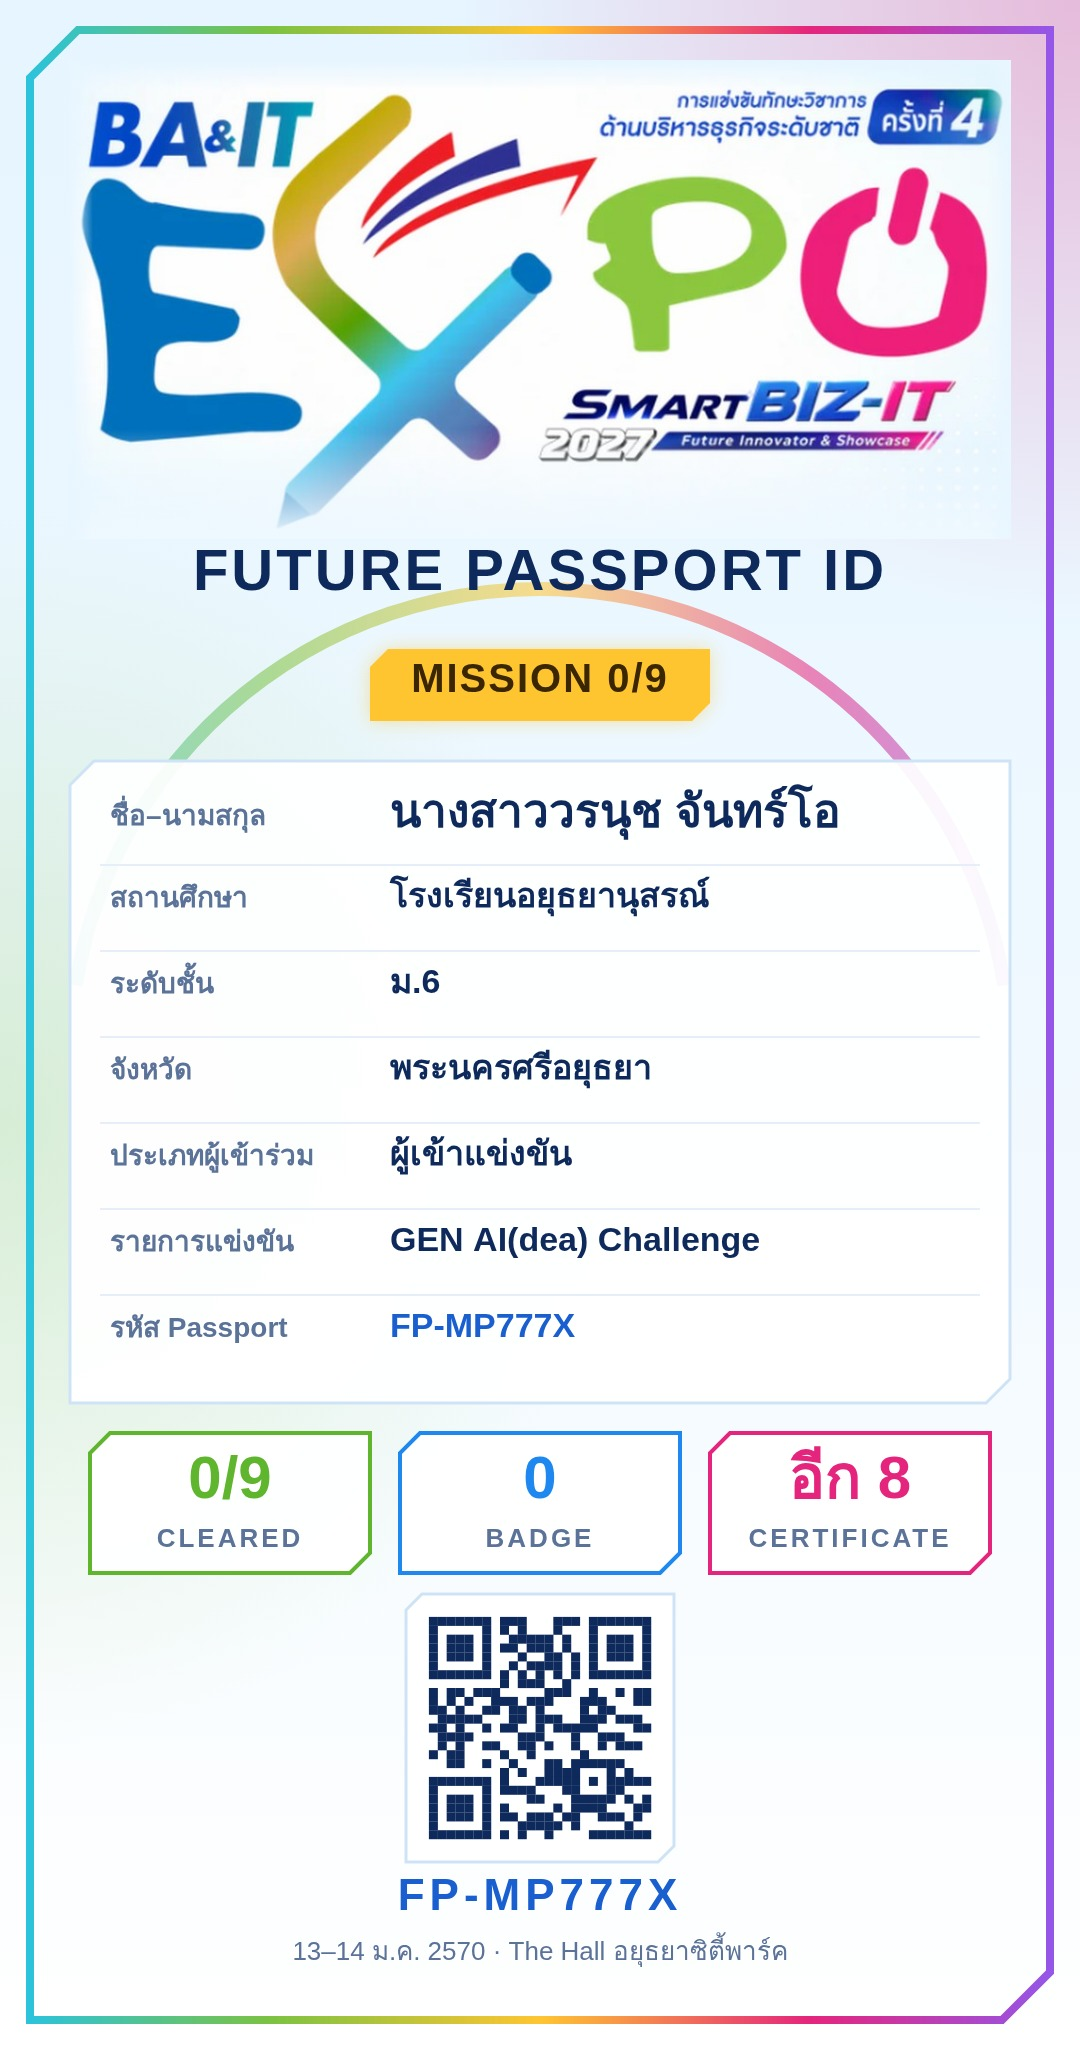
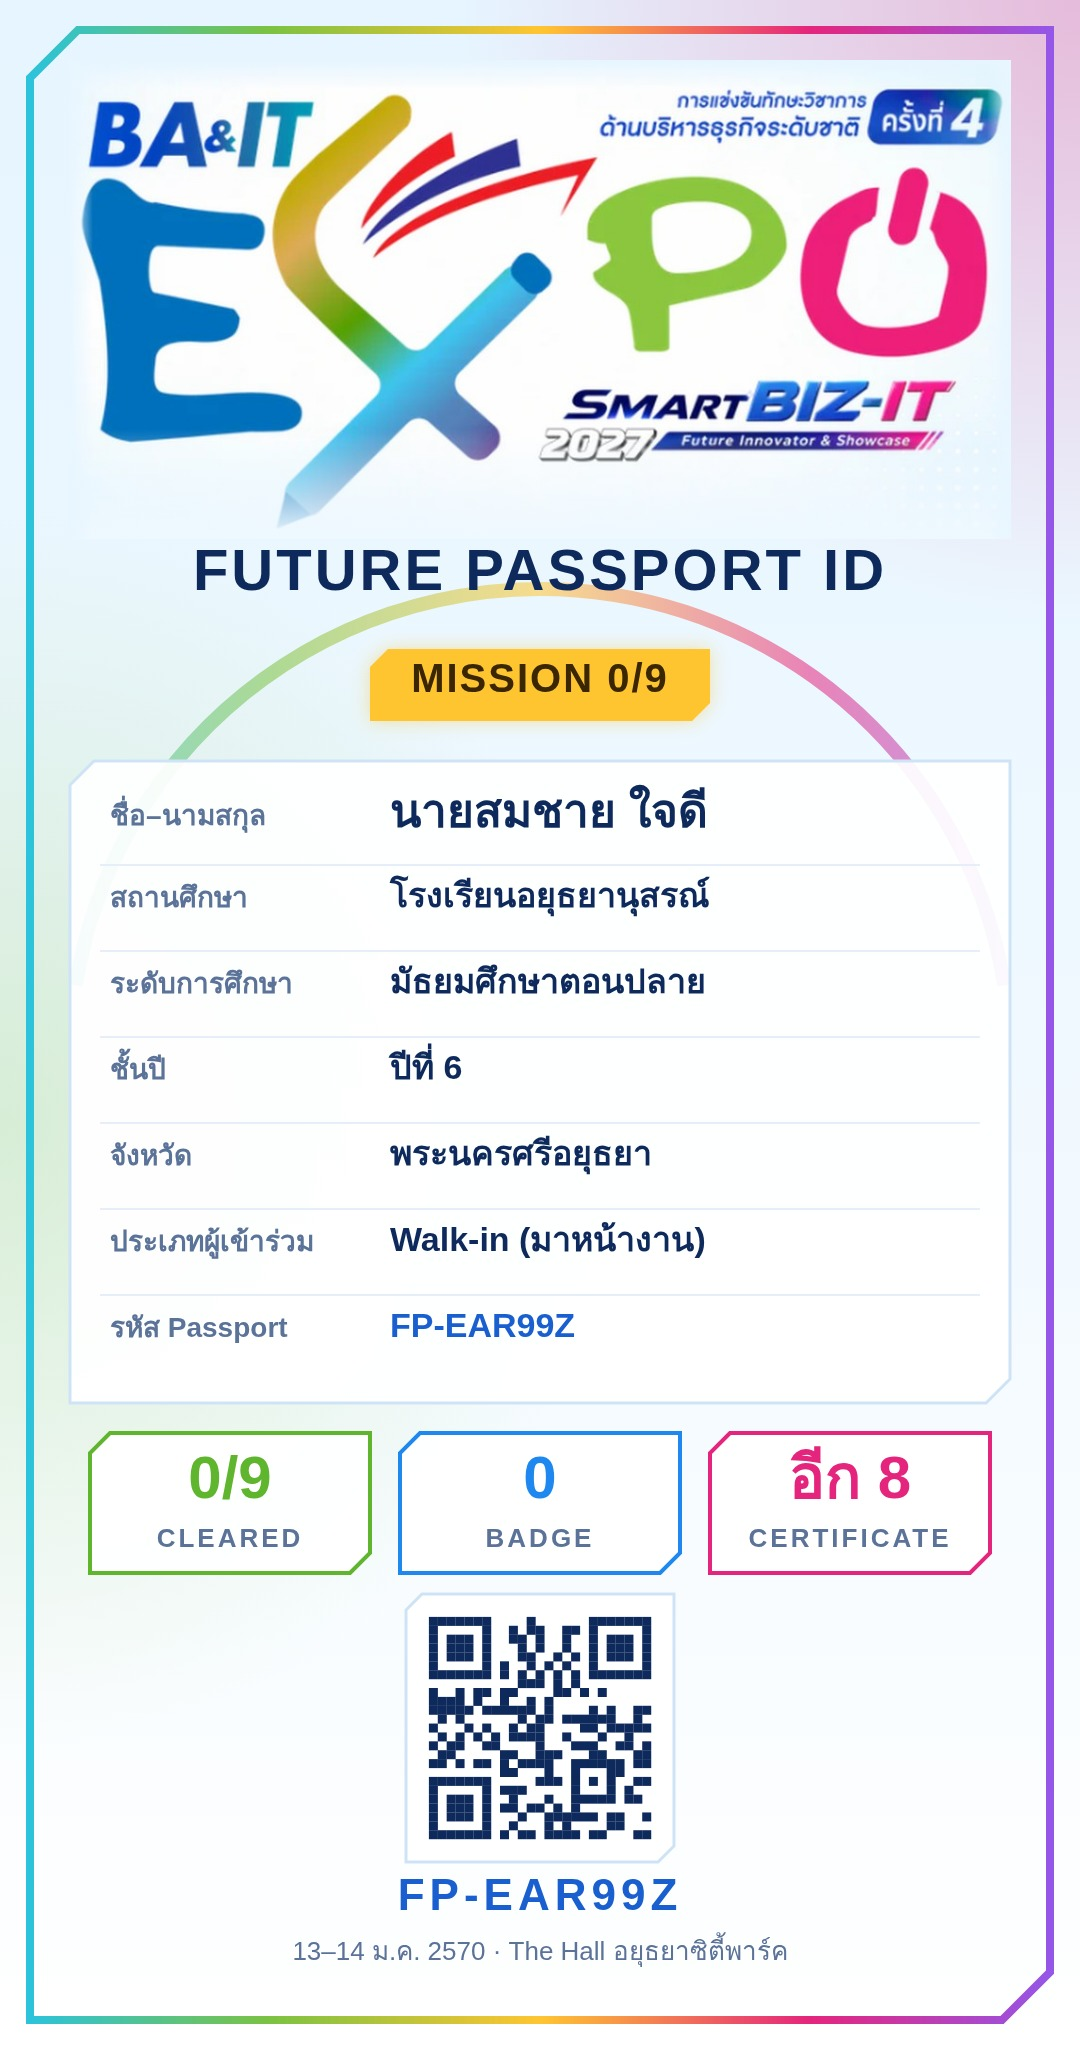
Add files via upload

diff --git a/index.html b/index.html
@@ -593,8 +593,10 @@ var STYLE = {1:["crown","#D3263A"],2:["truck","#C92A8A"],3:["trending-up","#B974
 var TIER_STYLE = [["gift","#E2399E"],["ticket","#2F6BFF"],["package","#13A57F"],["star","#C98A10"]];
 var SCHOOLS = ["อยุธยานุสรณ์","วิทยาลัยเทคโนโลยีพณิชยการอยุธยา","จอมสุรางค์อุปถัมภ์","วิทยาลัยเทคโนโลยีไทยอโยธยาบริหารธุรกิจ","อยุธยาวิทยาลัย","อิสลามศรีอยุธยามูลนิธิ","ภาชี สุนทรวิทยานุกูล","บางปะอิน ราชานุเคราะห์ 1","เสนา เสนาประสิทธิ์","ธรรมโชติศึกษาลัย","สามชุกรัตนโภคาราม","บรรหารแจ่มใสวิทยา 3","สตรีอ่างทอง","ปาโมกข์วิทยาภูมิ","อ่างทองปัทมโรจน์วิทยาคม"];
 var OTHER = "อื่น ๆ (พิมพ์ชื่อสถานศึกษา)";
-var PROVINCES = ["พระนครศรีอยุธยา","สุพรรณบุรี","อ่างทอง","อื่น ๆ"];
-var LEVELS = ["ม.4","ม.5","ม.6","ปวช.","ปวส.","อื่น ๆ"];
+var PROVINCES = ["กรุงเทพมหานคร", "กระบี่", "กาญจนบุรี", "กาฬสินธุ์", "กำแพงเพชร", "ขอนแก่น", "จันทบุรี", "ฉะเชิงเทรา", "ชลบุรี", "ชัยนาท", "ชัยภูมิ", "ชุมพร", "เชียงราย", "เชียงใหม่", "ตรัง", "ตราด", "ตาก", "นครนายก", "นครปฐม", "นครพนม", "นครราชสีมา", "นครศรีธรรมราช", "นครสวรรค์", "นนทบุรี", "นราธิวาส", "น่าน", "บึงกาฬ", "บุรีรัมย์", "ปทุมธานี", "ประจวบคีรีขันธ์", "ปราจีนบุรี", "ปัตตานี", "พระนครศรีอยุธยา", "พะเยา", "พังงา", "พัทลุง", "พิจิตร", "พิษณุโลก", "เพชรบุรี", "เพชรบูรณ์", "แพร่", "ภูเก็ต", "มหาสารคาม", "มุกดาหาร", "แม่ฮ่องสอน", "ยโสธร", "ยะลา", "ร้อยเอ็ด", "ระนอง", "ระยอง", "ราชบุรี", "ลพบุรี", "ลำปาง", "ลำพูน", "เลย", "ศรีสะเกษ", "สกลนคร", "สงขลา", "สตูล", "สมุทรปราการ", "สมุทรสงคราม", "สมุทรสาคร", "สระแก้ว", "สระบุรี", "สิงห์บุรี", "สุโขทัย", "สุพรรณบุรี", "สุราษฎร์ธานี", "สุรินทร์", "หนองคาย", "หนองบัวลำภู", "อ่างทอง", "อำนาจเจริญ", "อุดรธานี", "อุตรดิตถ์", "อุทัยธานี", "อุบลราชธานี"];
+var NEAR_PROVINCES = ["พระนครศรีอยุธยา","อ่างทอง","สุพรรณบุรี","สิงห์บุรี","ชัยนาท","ลพบุรี","สระบุรี","ปทุมธานี","นนทบุรี"];
+var LEVELS = ["มัธยมศึกษาตอนต้น","มัธยมศึกษาตอนปลาย","ประกาศนียบัตรวิชาชีพ (ปวช.)","ประกาศนียบัตรวิชาชีพชั้นสูง (ปวส.)","มหาวิทยาลัย"];
+var YEARS = ["1","2","3","4","5","6"];
 var INTERESTS = ["ธุรกิจ/การจัดการ","การตลาด","บัญชี/การเงิน","โลจิสติกส์","เทคโนโลยี/AI","ดิจิทัลคอนเทนต์"];
 
 var S = null, pending = null, walkin = false, lastFetch = 0, SUB = "";
@@ -732,12 +734,11 @@ VIEWS.register=function(){
     st.map(function(x){return '<button type="button" role="radio" aria-checked="'+(x[0]===pre)+'" data-st="'+x[0]+'"><i data-lucide="'+x[1]+'"></i><b>'+x[2]+'</b><span>'+x[3]+'</span></button>';}).join("")+'</div>'+
   '<div id="rCompBox" style="display:none"><label class="f" for="rComp">รายการที่เข้าแข่งขัน</label><select class="in" id="rComp"><option value="">เลือกรายการแข่งขัน</option>'+opts(COMPETITIONS)+'</select></div>'+
   '<label class="f" for="rName">ชื่อ–นามสกุล (แสดงบน Passport ID และวุฒิบัตร)</label><input class="in" id="rName" autocomplete="name" maxlength="80" placeholder="เช่น นางสาวอนงค์ ใจดี">'+
-  '<label class="f" for="rSchool">สถานศึกษา</label><div class="schoolrow"><select class="in" id="rPrefix">'+opts(SCHOOL_PREFIX)+'</select>'+
-  '<input class="in" id="rSchool" list="schoolList" maxlength="120" autocomplete="off" placeholder="ชื่อสถานศึกษา เช่น อยุธยานุสรณ์"></div>'+
-  '<datalist id="schoolList">'+opts(SCHOOLS)+'</datalist>'+
-  '<div class="schoolprev" id="rSchoolPrev">จะแสดงเป็น: –</div>'+
-  '<div class="row"><div><label class="f" for="rLevel">ระดับชั้น</label><select class="in" id="rLevel">'+opts(LEVELS)+'</select></div>'+
-  '<div><label class="f" for="rProv">จังหวัด</label><select class="in" id="rProv">'+opts(PROVINCES)+'</select></div></div>'+
+  '<label class="f" for="rSchool">ชื่อสถานศึกษา (พิมพ์ชื่อเต็ม)</label><input class="in" id="rSchool" maxlength="120" autocomplete="off" placeholder="เช่น โรงเรียนอยุธยานุสรณ์ / วิทยาลัยเทคนิคอ่างทอง">'+
+  '<div class="schoolprev">พิมพ์คำว่า โรงเรียน หรือ วิทยาลัย นำหน้าด้วย ชื่อนี้จะแสดงบน Passport ID และวุฒิบัตร</div>'+
+  '<label class="f" for="rLevel">ระดับการศึกษา</label><select class="in" id="rLevel"><option value="">เลือกระดับการศึกษา</option>'+opts(LEVELS)+'</select>'+
+  '<div class="row"><div><label class="f" for="rYear">ชั้นปี</label><select class="in" id="rYear"><option value="">เลือกชั้นปี</option>'+opts(YEARS)+'</select></div>'+
+  '<div><label class="f" for="rProv">จังหวัด</label><select class="in" id="rProv"><option value="">เลือกจังหวัด</option><optgroup label="จังหวัดใกล้เคียงงาน">'+opts(NEAR_PROVINCES)+'</optgroup><optgroup label="ทุกจังหวัด (77 จังหวัด)">'+opts(PROVINCES)+'</optgroup></select></div></div>'+
   '<label class="f">ความสนใจ (เลือกได้หลายข้อ)</label><div class="chips" id="rInt">'+INTERESTS.map(function(x){return '<button type="button" class="chip" aria-pressed="false">'+esc(x)+'</button>';}).join("")+'</div>'+
   '<label class="check"><input type="checkbox" id="rNews"><span>ยินยอมรับข่าวสารหลักสูตรและการรับสมัครเรียนของคณะทาง LINE (ไม่บังคับ ยกเลิกได้ทุกเมื่อ)</span></label>'+
   '<div class="err" id="rErr" role="alert"></div>'+
@@ -748,19 +749,20 @@ VIEWS.register=function(){
     function setType(v){status=v;[].forEach.call(document.querySelectorAll("#rType [data-st]"),function(b){b.setAttribute("aria-checked",String(b.dataset.st===v));});$("rCompBox").style.display=v==="competitor"?"block":"none";}
     [].forEach.call(document.querySelectorAll("#rType [data-st]"),function(b){b.onclick=function(){setType(b.dataset.st);};});
     if(pre) setType(pre);
-    function prev(){var v=fullSchool($("rPrefix").value,$("rSchool").value);$("rSchoolPrev").textContent="จะแสดงเป็น: "+(v||"–");}
-    $("rSchool").oninput=function(){var v=this.value.trim();if(/^วิทยาลัย/.test(v))$("rPrefix").value="วิทยาลัย";else if(/^มหาวิทยาลัย/.test(v))$("rPrefix").value="มหาวิทยาลัย";else if(/^โรงเรียน/.test(v))$("rPrefix").value="โรงเรียน";prev();};
-    $("rPrefix").onchange=prev;
     [].forEach.call(document.querySelectorAll("#rInt .chip"),function(b){b.onclick=function(){b.setAttribute("aria-pressed",b.getAttribute("aria-pressed")==="true"?"false":"true");};});
     if($("rPriv")) $("rPriv").onclick=function(){openUrl(ps);};
     $("rGo").onclick=function(){
-      var name=$("rName").value.replace(/\s+/g," ").trim(), school=fullSchool($("rPrefix").value,$("rSchool").value), comp=$("rComp").value, err=$("rErr");
+      var name=$("rName").value.replace(/\s+/g," ").trim(), school=$("rSchool").value.replace(/\s+/g," ").trim(), comp=$("rComp").value, err=$("rErr");
       if(!status){err.textContent="เลือกประเภทผู้เข้าร่วม";$("rType").scrollIntoView({block:"center"});return;}
       if(status==="competitor"&&!comp){err.textContent="เลือกรายการที่เข้าแข่งขัน";return;}
       if(name.length<3){err.textContent="กรอกชื่อ–นามสกุล";return;}
       if(school.length<5){err.textContent="กรอกชื่อสถานศึกษา";return;}
+      if(!/(โรงเรียน|วิทยาลัย|มหาวิทยาลัย|สถาบัน|ศูนย์|การศึกษา)/.test(school)){err.textContent="พิมพ์ชื่อสถานศึกษาแบบเต็ม เช่น โรงเรียนอยุธยานุสรณ์ หรือ วิทยาลัยเทคนิคอ่างทอง";return;}
+      if(!$("rLevel").value){err.textContent="เลือกระดับการศึกษา";return;}
+      if(!$("rYear").value){err.textContent="เลือกชั้นปี";return;}
+      if(!$("rProv").value){err.textContent="เลือกจังหวัด";return;}
       err.textContent=""; var btn=this; btn.disabled=true; btn.textContent="กำลังลงทะเบียน…";
-      api("register",{name:name,school:school,level:$("rLevel").value,province:$("rProv").value,status:status,competition:status==="competitor"?comp:"",
+      api("register",{name:name,school:school,level:$("rLevel").value,year:$("rYear").value,province:$("rProv").value,status:status,competition:status==="competitor"?comp:"",
         interests:[].map.call(document.querySelectorAll('#rInt .chip[aria-pressed="true"]'),function(b){return b.textContent;}),
         consentNews:$("rNews").checked,walkin:status==="walkin"})
       .then(function(d){
@@ -780,7 +782,7 @@ VIEWS.register=function(){
 };
 function statusLabel(u){u=u||S.user;return STATUS_LABEL[u.status]||(u.walkin?STATUS_LABEL.walkin:"ผู้เข้าร่วมงาน");}
 function idRows(){
-  var u=S.user, r=[["ชื่อ–นามสกุล",u.name],["สถานศึกษา",u.school],["ระดับชั้น",u.level||"-"],["จังหวัด",u.province||"-"],["ประเภทผู้เข้าร่วม",statusLabel(u)]];
+  var u=S.user, r=[["ชื่อ–นามสกุล",u.name],["สถานศึกษา",u.school],["ระดับการศึกษา",u.level||"-"],["ชั้นปี",u.year?("ปีที่ "+u.year):"-"],["จังหวัด",u.province||"-"],["ประเภทผู้เข้าร่วม",statusLabel(u)]];
   if(u.status==="competitor"&&u.competition) r.push(["รายการแข่งขัน",u.competition]);
   r.push(["รหัส Passport",memberId()]);
   return r;
@@ -870,7 +872,7 @@ VIEWS.passport=function(p){
     '<p class="note" style="margin:10px 0 0">ชื่อหรือสถานศึกษาผิด แจ้งเจ้าหน้าที่ที่จุดลงทะเบียนเพื่อแก้ไขก่อนรับวุฒิบัตร</p></div>';
   var tabs=[["missions","ภารกิจ","list-checks"],["badges","Badge","hexagon"],["profile","บัตร ID","contact"]];
   return {title:"My Passport",html:
-  '<div class="hero"><div class="hud-k">PLAYER CARD<span class="lv">LV '+n+'</span><button class="idbtn" id="pIdTop"><i data-lucide="contact"></i>บัตร ID</button></div><div class="pass"><div><div class="nm">'+esc(S.user.name)+'</div><div class="sc">'+esc(S.user.school)+' · '+esc(S.user.level)+'</div></div></div>'+
+  '<div class="hero"><div class="hud-k">PLAYER CARD<span class="lv">LV '+n+'</span><button class="idbtn" id="pIdTop"><i data-lucide="contact"></i>บัตร ID</button></div><div class="pass"><div><div class="nm">'+esc(S.user.name)+'</div><div class="sc">'+esc(S.user.school)+(S.user.year?' · ปี '+esc(S.user.year):'')+'</div></div></div>'+
   '<div class="pts"><b>'+n+'</b><span>/ 9 ฐาน</span></div>'+segs()+'<div class="prog-note">'+progNote()+'</div></div>'+
   '<button class="btn scanbig" id="pScan"><i data-lucide="scan-line"></i>SCAN MISSION · สแกนฐาน</button>'+
   '<div class="tabs" role="tablist">'+tabs.map(function(t){return '<button role="tab" aria-selected="'+(t[0]===tab)+'" data-tab="'+t[0]+'"><i data-lucide="'+t[2]+'"></i>'+t[1]+'</button>';}).join("")+'</div>'+
@@ -1055,12 +1057,12 @@ function openImageViewer(srcOrPromise,fileName,rotDefault){
 function memberId(){var id=(SUB||"").replace(/[^A-Za-z0-9]/g,"").slice(-6).toUpperCase()||"000000";return "FP-"+id;}
 var idCache={key:"",url:""}; // v-noavatar
 function renderIdCard(){
-  var key=[memberId(),S.user.name,S.user.school,S.user.level,S.user.province,S.user.status,S.user.competition,count(),!!S.cert].join("|");
+  var key=[memberId(),S.user.name,S.user.school,S.user.level,S.user.year,S.user.province,S.user.status,S.user.competition,count(),!!S.cert].join("|");
   if(idCache.key===key&&idCache.url) return Promise.resolve(idCache.url);
   var want=["800 40px Prompt","700 40px Prompt",'600 40px "IBM Plex Sans Thai"','400 40px "IBM Plex Sans Thai"'];
   var fl=(document.fonts&&document.fonts.load)?Promise.all(want.map(function(f){return document.fonts.load(f,"บัตร Aa");})).catch(function(){}):Promise.resolve();
   return fl.then(function(){return loadImg("expo-header.jpg").catch(function(){return null;});}).then(function(logo){
-    var W=1080,H=2050,c=document.createElement("canvas");c.width=W;c.height=H;var x=c.getContext("2d");
+    var W=1080,H=1448+idRows().length*86,c=document.createElement("canvas");c.width=W;c.height=H;var x=c.getContext("2d");
     var HEAD='"Prompt","Leelawadee UI",sans-serif',BODY='"IBM Plex Sans Thai","Leelawadee UI",sans-serif';
     function cut(px,py,w,h,k){x.beginPath();x.moveTo(px+k,py);x.lineTo(px+w,py);x.lineTo(px+w,py+h-k);x.lineTo(px+w-k,py+h);x.lineTo(px,py+h);x.lineTo(px,py+k);x.closePath();}
     function t(str,px,py,o){var fs=o.size,mw=o.maxW||W-160;x.font=(o.w||400)+" "+fs+"px "+(o.head?HEAD:BODY);
